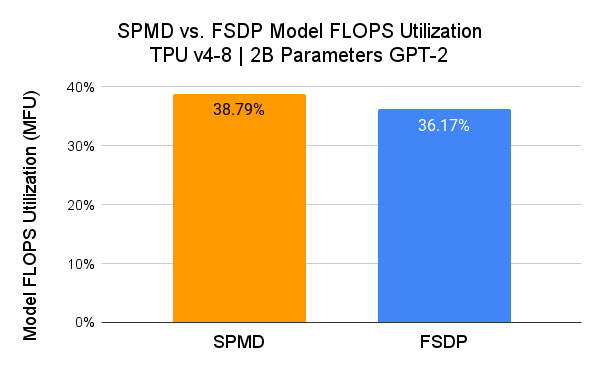
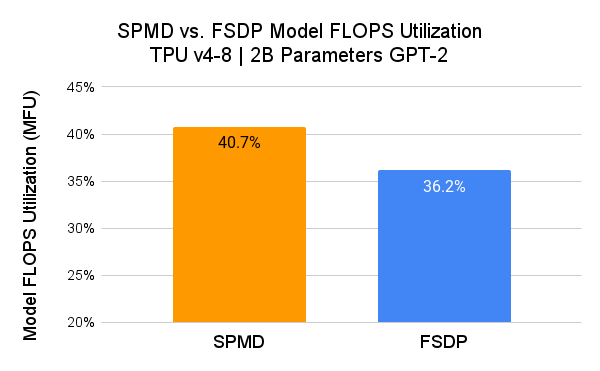
Update to fig 2

diff --git a/_posts/2023-08-31-pytorch-xla-spmd.md b/_posts/2023-08-31-pytorch-xla-spmd.md
@@ -152,7 +152,7 @@ More complete unit test cases and integration test examples are available in the
 
 We measured the performance of PyTorch/XLA SPMD using a GPT-2 model ([src](https://github.com/pytorch-tpu/transformers/tree/yeounoh_gpt2_spmd)) and compared it with [user-mode FSDP](https://pytorch.org/blog/scaling-pytorch-models-on-cloud-tpus-with-fsdp/).
 
-
+Here, SPMD applies the same sharding scheme as the FSDP plot (i.e. 1D sharding). Users are expected to achieve better MFU results by exploring more advanced SPMD sharding schemes.
 
 ![SPMD vs. FSDP](/assets/images/pytorch-xla-spmd/fig2.png){:style="width:100%; max-width: 600px; display: block; margin-left: auto; margin-right: auto"}
 
